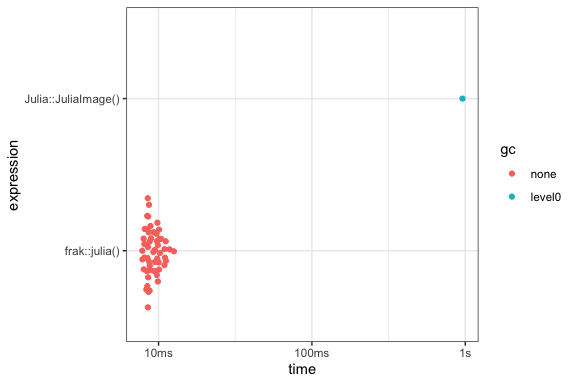
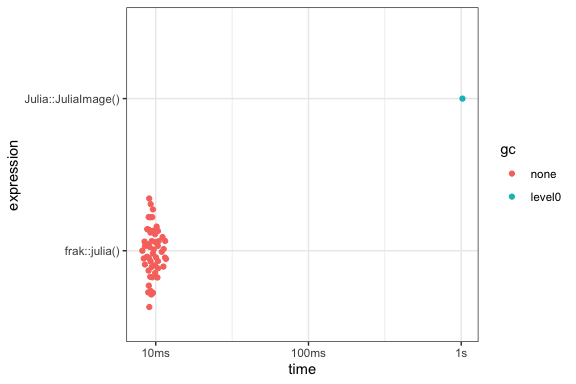
update readme

diff --git a/README.md b/README.md
@@ -81,6 +81,45 @@ plot(as.raster(fractal_raster))
 
 <summary> Click to show/hide code to generate gif </summary>
 
+``` r
+library(foist)
+library(displease)
+library(frak)
+
+dir.create('man/figures/anim', showWarnings = FALSE)
+
+#~~~~~~~~~~~~~~~~~~~~~~~~~~~~~~~~~~~~~~~~~~~~~~~~~~~~~~~~~~~~~~~~~~~~~~~~~~~~~
+# Use {displease} to get a pleasing motion as the zoom is performed
+#~~~~~~~~~~~~~~~~~~~~~~~~~~~~~~~~~~~~~~~~~~~~~~~~~~~~~~~~~~~~~~~~~~~~~~~~~~~~~
+N <- 100
+zoom <- displease::seq_ease(1, 1000, n = N, type = 'exp-in')
+
+#~~~~~~~~~~~~~~~~~~~~~~~~~~~~~~~~~~~~~~~~~~~~~~~~~~~~~~~~~~~~~~~~~~~~~~~~~~~~~
+# Loop: create an image dump it to file.
+# Using {foist} here for fast image output
+#~~~~~~~~~~~~~~~~~~~~~~~~~~~~~~~~~~~~~~~~~~~~~~~~~~~~~~~~~~~~~~~~~~~~~~~~~~~~~
+for (i in seq(N)) {
+  frac <- frak::julia(cx = -0.71, zoom = zoom[i], movex = 0.1)
+  mode(frac) <- 'integer'
+  frac <- frac/255
+  
+  filename <- sprintf("man/figures/anim/%03i.png", i)
+  
+  foist::write_png(
+    data                 = frac, 
+    filename             = filename, 
+    pal                  = foist::vir$magma, 
+    convert_to_row_major = FALSE
+  )
+}
+
+#~~~~~~~~~~~~~~~~~~~~~~~~~~~~~~~~~~~~~~~~~~~~~~~~~~~~~~~~~~~~~~~~~~~~~~~~~~~~~
+# Create the animation using imagemagick and delete the source frames
+#~~~~~~~~~~~~~~~~~~~~~~~~~~~~~~~~~~~~~~~~~~~~~~~~~~~~~~~~~~~~~~~~~~~~~~~~~~~~~
+system("convert man/figures/anim/*.png man/figures/anim.gif")
+unlink("man/figures/anim/", recursive = TRUE)
+```
+
 </details>
 
 <img src="man/figures/anim.gif" width="50%" />
@@ -116,10 +155,10 @@ res <- bench::mark(
 
 </details>
 
-| expression          |      min |   median |    itr/sec |
-| :------------------ | -------: | -------: | ---------: |
-| Julia::JuliaImage() | 958.73ms | 958.73ms |   1.043043 |
-| frak::julia()       |   7.84ms |   8.87ms | 107.806805 |
+| expression          |    min | median |    itr/sec |
+| :------------------ | -----: | -----: | ---------: |
+| Julia::JuliaImage() |  1.02s |  1.02s |   0.981843 |
+| frak::julia()       | 8.17ms | 9.46ms | 103.748981 |
 
 <img src="man/figures/README-unnamed-chunk-6-1.png" width="100%" />
 
